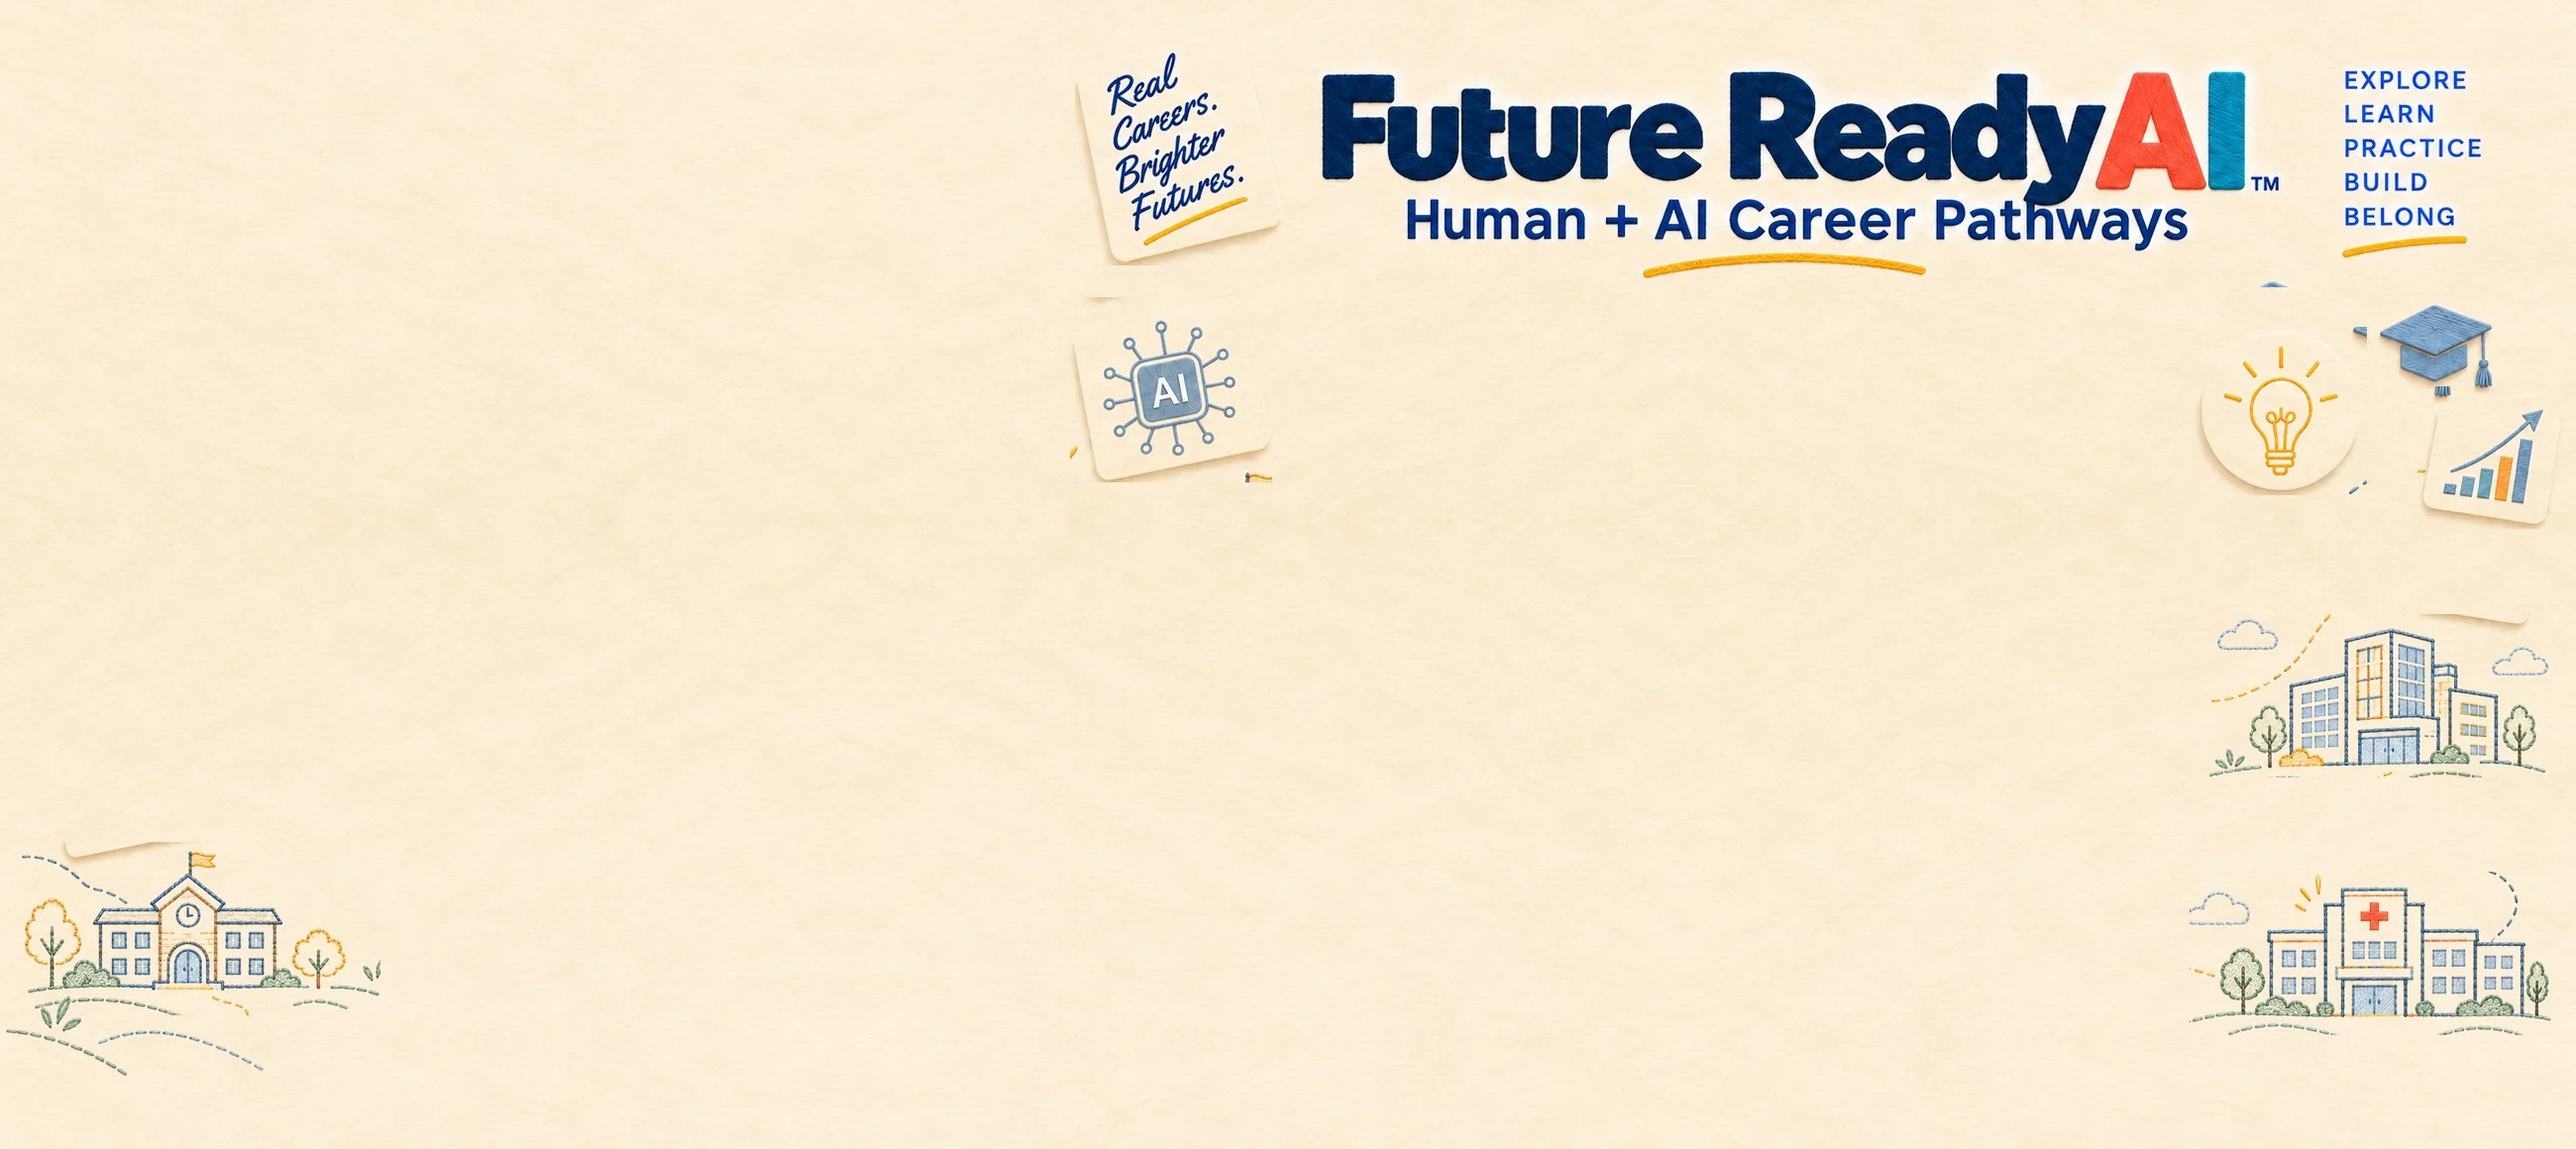
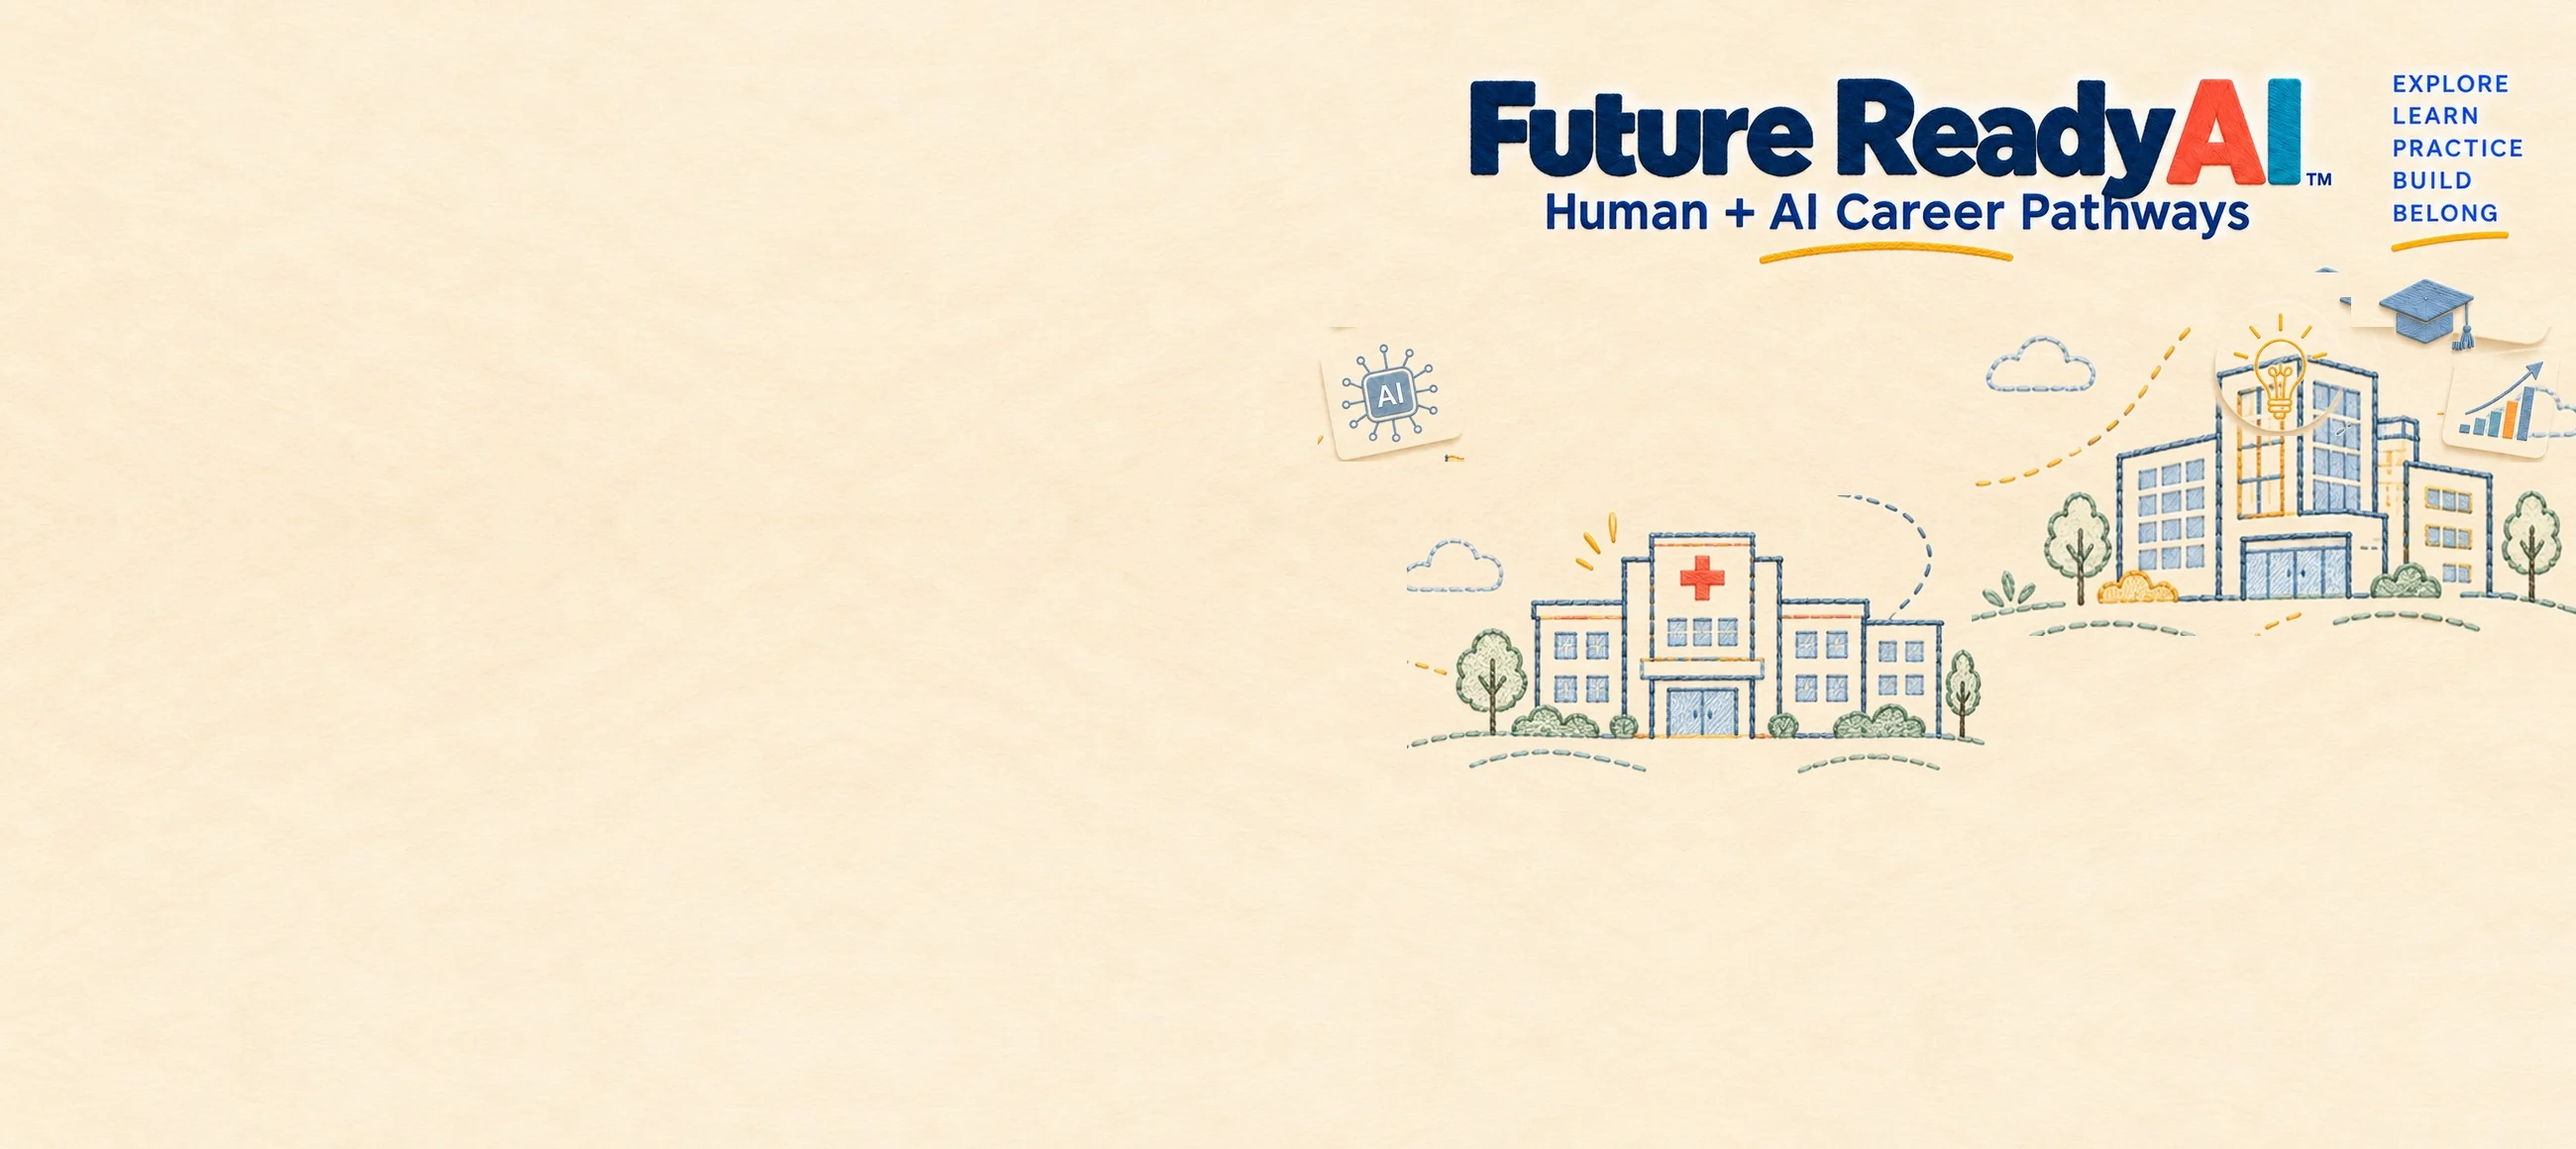
Career header adjustments

diff --git a/hero-v3.css b/hero-v3.css
@@ -620,3 +620,16 @@ details.career-card .career-card__careers { margin-top: .4rem !important; }
   .hero-v3--careers .hero-v3__photo { padding-top: 1.25rem; }
   .hero-v3--careers .career-group img { width: 100%; margin-left: 0; }
 }
+
+/* Career header v2: school on the left (not behind the card), larger buildings on the right,
+   card shifted right, group moved toward the right */
+@media (min-width: 901px) {
+  .theme-careers .hero-v3--careers {
+    background: url("assets/images/headers-v3/career-school.webp") left max(8px, calc(50% - 740px)) bottom 8px / auto 34% no-repeat,
+                url("assets/images/headers-v3/career-hero-bg.webp") right top / auto 90% no-repeat,
+                url("assets/images/headers-v3/career-felt.webp") center / 900px auto repeat, #f8ecd4;
+  }
+  .hero-v3--careers .hero-v3__inner { max-width: 1480px; padding-left: clamp(1.25rem, 21vw, 320px); grid-template-columns: minmax(0, .8fr) minmax(0, 1.2fr); gap: clamp(1rem, 2.5vw, 2rem); }
+  .hero-v3--careers .hero-v3__copy { max-width: 470px; }
+  .hero-v3--careers .career-group img { width: 100%; margin-left: 4%; }
+}

diff --git a/accessibility.html b/accessibility.html
@@ -12,7 +12,7 @@
 <link href="https://fonts.googleapis.com/css2?family=Poppins:wght@600;700&amp;family=Inter:wght@400;500;600&amp;display=swap" rel="stylesheet"/>
 <link href="styles.css?v=5" rel="stylesheet">
 </link><link href="hero-v2.css?v=3" rel="stylesheet"/>
-<link href="hero-v3.css?v=35" rel="stylesheet"/>
+<link href="hero-v3.css?v=38" rel="stylesheet"/>
 
 <link href="https://andreadavisbaptiste82-creator.github.io/future-ready-ai/accessibility.html" rel="canonical"/>
 <meta content="website" property="og:type"/>

diff --git a/pattern-detectives.html b/pattern-detectives.html
@@ -11,7 +11,7 @@
   <link href="https://fonts.googleapis.com/css2?family=Poppins:wght@600;700&family=Inter:wght@400;500;600&display=swap" rel="stylesheet">
   <link rel="stylesheet" href="styles.css?v=5" />
 <link href="hero-v2.css?v=3" rel="stylesheet"/>
-<link href="hero-v3.css?v=35" rel="stylesheet"/>
+<link href="hero-v3.css?v=38" rel="stylesheet"/>
 
 <link href="https://andreadavisbaptiste82-creator.github.io/future-ready-ai/pattern-detectives.html" rel="canonical"/>
 <meta content="website" property="og:type"/>

diff --git a/privacy.html b/privacy.html
@@ -12,7 +12,7 @@
 <link href="https://fonts.googleapis.com/css2?family=Poppins:wght@600;700&amp;family=Inter:wght@400;500;600&amp;display=swap" rel="stylesheet"/>
 <link href="styles.css?v=5" rel="stylesheet">
 </link><link href="hero-v2.css?v=3" rel="stylesheet"/>
-<link href="hero-v3.css?v=35" rel="stylesheet"/>
+<link href="hero-v3.css?v=38" rel="stylesheet"/>
 
 <link href="https://andreadavisbaptiste82-creator.github.io/future-ready-ai/privacy.html" rel="canonical"/>
 <meta content="website" property="og:type"/>

diff --git a/terms.html b/terms.html
@@ -12,7 +12,7 @@
 <link href="https://fonts.googleapis.com/css2?family=Poppins:wght@600;700&amp;family=Inter:wght@400;500;600&amp;display=swap" rel="stylesheet"/>
 <link href="styles.css?v=5" rel="stylesheet">
 </link><link href="hero-v2.css?v=3" rel="stylesheet"/>
-<link href="hero-v3.css?v=35" rel="stylesheet"/>
+<link href="hero-v3.css?v=38" rel="stylesheet"/>
 
 <link href="https://andreadavisbaptiste82-creator.github.io/future-ready-ai/terms.html" rel="canonical"/>
 <meta content="website" property="og:type"/>

diff --git a/contact.html b/contact.html
@@ -13,7 +13,7 @@
 <link href="styles.css?v=5" rel="stylesheet"/>
 <link href="final-headers.css?v=20260927-locked7" rel="stylesheet"/>
 <link href="hero-v2.css?v=3" rel="stylesheet"/>
-<link href="hero-v3.css?v=35" rel="stylesheet"/>
+<link href="hero-v3.css?v=38" rel="stylesheet"/>
 <link href="schedule-section.css?v=20260927" rel="stylesheet"/>
 
 <link href="https://andreadavisbaptiste82-creator.github.io/future-ready-ai/contact.html" rel="canonical"/>

diff --git a/curriculum-elementary.html b/curriculum-elementary.html
@@ -13,7 +13,7 @@
 <link href="styles.css?v=5" rel="stylesheet"/>
 <link href="final-headers.css?v=20260927-locked7" rel="stylesheet"/>
 <link href="hero-v2.css?v=3" rel="stylesheet"/>
-<link href="hero-v3.css?v=35" rel="stylesheet"/>
+<link href="hero-v3.css?v=38" rel="stylesheet"/>
 
 <link href="https://andreadavisbaptiste82-creator.github.io/future-ready-ai/curriculum-elementary.html" rel="canonical"/>
 <meta content="website" property="og:type"/>

diff --git a/drone-career-explorer.html b/drone-career-explorer.html
@@ -13,7 +13,7 @@
 <link href="styles.css?v=5" rel="stylesheet"/>
 <link href="final-headers.css?v=20260927-locked7" rel="stylesheet"/>
 <link href="hero-v2.css?v=3" rel="stylesheet"/>
-<link href="hero-v3.css?v=35" rel="stylesheet"/>
+<link href="hero-v3.css?v=38" rel="stylesheet"/>
 
 <link href="https://andreadavisbaptiste82-creator.github.io/future-ready-ai/drone-career-explorer.html" rel="canonical"/>
 <meta content="website" property="og:type"/>

diff --git a/curriculum-middle.html b/curriculum-middle.html
@@ -13,7 +13,7 @@
 <link href="styles.css?v=5" rel="stylesheet"/>
 <link href="final-headers.css?v=20260927-locked7" rel="stylesheet"/>
 <link href="hero-v2.css?v=3" rel="stylesheet"/>
-<link href="hero-v3.css?v=35" rel="stylesheet"/>
+<link href="hero-v3.css?v=38" rel="stylesheet"/>
 
 <link href="https://andreadavisbaptiste82-creator.github.io/future-ready-ai/curriculum-middle.html" rel="canonical"/>
 <meta content="website" property="og:type"/>

diff --git a/career-pathways.html b/career-pathways.html
@@ -13,7 +13,7 @@
 <link href="styles.css?v=5" rel="stylesheet"/>
 <link href="final-headers.css?v=20260927-locked7" rel="stylesheet"/>
 <link href="hero-v2.css?v=3" rel="stylesheet"/>
-<link href="hero-v3.css?v=35" rel="stylesheet"/>
+<link href="hero-v3.css?v=38" rel="stylesheet"/>
 
 <link href="https://andreadavisbaptiste82-creator.github.io/future-ready-ai/career-pathways.html" rel="canonical"/>
 <meta content="website" property="og:type"/>

diff --git a/curriculum-high.html b/curriculum-high.html
@@ -13,7 +13,7 @@
 <link href="styles.css?v=5" rel="stylesheet"/>
 <link href="final-headers.css?v=20260927-locked7" rel="stylesheet"/>
 <link href="hero-v2.css?v=3" rel="stylesheet"/>
-<link href="hero-v3.css?v=35" rel="stylesheet"/>
+<link href="hero-v3.css?v=38" rel="stylesheet"/>
 
 <link href="https://andreadavisbaptiste82-creator.github.io/future-ready-ai/curriculum-high.html" rel="canonical"/>
 <meta content="website" property="og:type"/>

diff --git a/curriculum.html b/curriculum.html
@@ -13,7 +13,7 @@
 <link href="styles.css?v=5" rel="stylesheet"/>
 <link href="final-headers.css?v=20260927-locked7" rel="stylesheet"/>
 <link href="hero-v2.css?v=3" rel="stylesheet"/>
-<link href="hero-v3.css?v=35" rel="stylesheet"/>
+<link href="hero-v3.css?v=38" rel="stylesheet"/>
 
 <link href="https://andreadavisbaptiste82-creator.github.io/future-ready-ai/curriculum.html" rel="canonical"/>
 <meta content="website" property="og:type"/>
